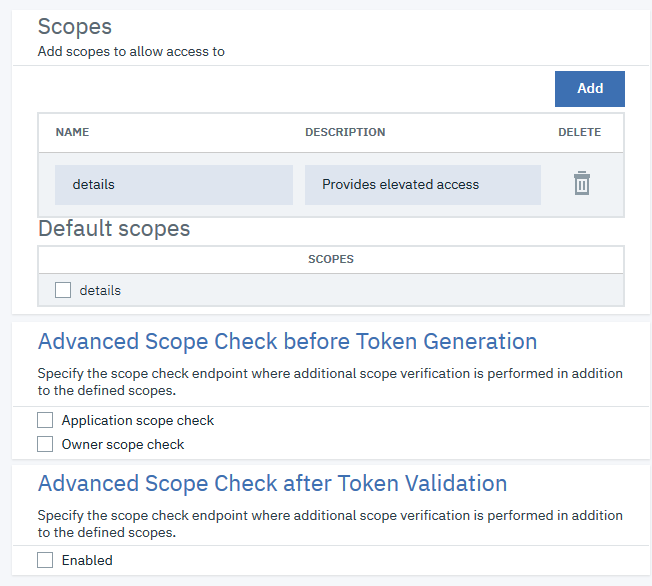
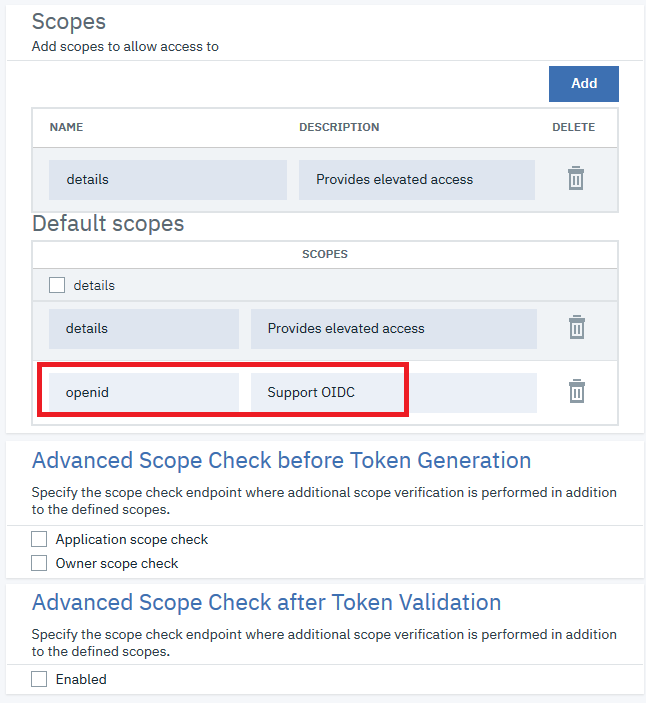
Access Code

diff --git a/Lab API - Manage your APIs with API Connect/README.2018.md b/Lab API - Manage your APIs with API Connect/README.2018.md
@@ -980,7 +980,7 @@ At this stage, we have configured the Fake Authentication URL API that we will u
 ## Protecting an API with Basic Authentication
 First, please consider that using Basic Authentication is not the best and most secured approach! The reason we have this test, is because it is a simple way to check that the *Fake Authentication URL API* is correctly working and can be used to secure an API. If I may make a parallel with Web application, using Basic Authentication is as secured as using it for a web application. A 401 challenge compared to a Form based authentication will imply that every request will contain the uid/pwd, not very secured indeed.
 
-There is an important design decision regarding what is the scope of the resource we are going to configure. Resource, here, means User Registries, TLS configurations and OAuth Providers. Should tey apply and be visible for only one organization, or should it be defined for all organizations. In our case, we have taken the decision that the resources will be defined for all organizations, and so we defined them in the Cloud Management Console. We could have decided to do it for each organization so they all would have their specific configurations.
+There is an important design decision regarding what is the scope of the resource we are going to configure. Resource, here, means User Registries, TLS configurations and OAuth Providers. Should they apply and be visible for only one organization, or should it be defined for all organizations. In our case, we have taken the decision that the resources will be defined for all organizations, and so we defined them in the Cloud Management Console. We could have decided to do it for each organization so they all would have their specific configurations.
 
 The list of Steps are the following:
 * In the Cloud Management console, define the User Registry based on the *Fake Authentication URL API*
@@ -1054,7 +1054,7 @@ In this lab, we start with a very simple case, but still very useful: the use of
 
 > **Note**: In this lab, we do not explain how to propagate the user information with a JWT token, it will be done in another version of this lab. But this is an important question, and there are different ways to get user information like having the back end performing a callback with the OAuth token to get information. We are not explaining the generationg of OIDC token. As of today, this is not a mandatory scenario required by OpenID and we are still in discussions to decide to implement it.
 
-### Create the Oauth Provider
+### Create the OAuth Provider
 So let's start! First let's create the native OAuth provider. As discussed earlier, we use the Cloud Management console, but it was a design decision, and we could use the API Manager console and manage OAuth resources, if we wanted.
 
 Login to the Cloud Manager console, and select Resources (or Manage Resources from home). Select OAuth Providers and click on Add and select Native OAuth Provider button.
@@ -1109,7 +1109,7 @@ Click on Finish button.
 
 We are going to add a few features to the OAuth Provider, such as OIDC and use of other endpoints such as introspection.
 Edit the NativeProvider:
-* Look at the Scopes panel, you will see other settings available, but we are not going to change them at this stage.
+* In the Scopes panel, add openid as a scope for the support of OIDC.
 
 ![Native OAuth provider scopes configuration](./images/native-edit-scopes.png)
 
@@ -1144,11 +1144,11 @@ Now, We need to make this OAuth Provider accessible in the various catalogs wher
 We have now an OAuth provider definition. We leave the Cloud Manager console and go to the Manager Console.
 Click on Manage, and select Sandbox, then Settings, and OAuth Providers. Click on Edit button on the top left.
 
-![OAuth provider association to Catalog Edit](./images/OAuth-native-manager-associate.png)
+![OAuth provider association to Catalog Edit](./images/oauth-native-manager-associate.png)
 
 Click on the checkbox close to the NativeProvider
 
-![OAuth provider association to Catalog](./images/OAuth-native-manager-associate-edit.png)
+![OAuth provider association to Catalog](./images/oauth-native-manager-associate-edit.png)
 
 Repeat the same operation with the Integration Catalog.
 It is not yet accessible because we are not using it in any API.
@@ -1203,8 +1203,6 @@ I'm going to test it in different ways: using Postman, curl and using the develo
 ![Test Access API](./images/test-ropc-15.png)
 
 #### Using curl
-**Warning : tested from Windows**
-
 
 1) Get token
 Request
@@ -1367,29 +1365,75 @@ Date: Fri, 03 Apr 2020 12:48:01 GMT
 ```
 
 ### Using the Developer portal
+We do not explain all th steps because it has been done in previous chapters.
+We connect to the developer Portal, then select the FakeMagento V2.0.0 API, and click on Tri it.
+In the first step, we get the token.
+We select the MyMobile App application, then enter the client_secret, enter the username and password and click on the Get Token button.
+It returns the Access Token.
+
+![Test Get Access Token](./images/test-ropc-21.png)
+
+In the second step, we click on Generate link to automatically populate the parameters needed to call the API. Then click on Send button.
+This invokes the FakeMagento API using the access Token as a Bearer.
+
+![Test Get Access Token](./images/test-ropc-22.png)
+
+## Protecting an API with OAuth - Authorization Code grant and OIDC
+
+### Protect the API with OAuth - Authorization
+Now let's protect, the FakeMagento version 3.0.0 API. Click on Develop, and select the FakeMagento-3.0.0 API.
+Click on Security Definitions, and click on Add button.
+Enter:
+> Name: Native Authorization
+<BR>Description: Using the native OAuth provider for Authorization grant
+<BR>Select OAuth2
+<BR>Select NativeProvider for the OAuth Provider
+<BR>Select Access code for the FLow
+<BR>Select details and openid for the scopes
+
+![OAuth Access Code API protection Security Definition](./images/access-secure-API-sec-def.png)
+
+Click Save button.
+
+![OAuth Access Code API protection Security](./images/access-secure-API-sec.png)
+
+### Tests
+Not explained in details here, but we publish the product (or use versionning with the publish capability), we are using the Integration environment. Then we subscribe to the Product with the Gold Plan, and approve the subscription. The API is published and ready to use.
+
+#### Using POSTMAN
+We are using one nice feature of Postman to directly get the access token.
+Using the "1 -Access Token Authorization V3" request
+Click on the Authorization link, then click on Get New Access Token
+
+![Postman Test Access Token](./images/test-access-11.png)
+
+![Postman Test Access Token](./images/test-access-12.png)
+
+![Postman Test Access Token](./images/test-access-13.png)
+
+![Postman Test Access Token](./images/test-access-14.png)
+
+![Postman Test Access Token](./images/test-access-15.png)
 
 
-## Protecting an API with OAuth - Authorization Code grant
+#### Using curl
+
+
+### Using the Developer portal
+You get the Acccess Token directly using curl or Postman. In my case, I use Postman to get the Access Token.
+We select the MyMobile App application, then enter the client_secret,and the Access Token. We click on Generate link to automatically populate the parameters needed to call the API. Then click on Send button.
+This invokes the FakeMagento API using the access Token as a Bearer.
+
+![Test Using the Access Token](./images/test-access-21.png)
+
+
 JSON Web Key (JWK) is specified at [RFC 7517](https://tools.ietf.org/html/rfc7517 "RFC 7517 Specification").
 A JSON Web Key (JWK) is a JavaScript Object Notation (JSON) data structure that represents a cryptographic key.
 I'm using a Simple JSON Web Key generator: [mkjwk](https://mkjwk.org/ "Simple JSON Web Key generator ").
-
-## Protecting an API with OAuth - Adding the OIDC token generation
 OIDC specification is based on the use of the idtoken which is a JSON Web Token - JWT specified at [RFC 7519](https://tools.ietf.org/html/rfc7519 "RFC 7519 Specification").
 
 ## Protecting an API with OAuth - Client Credentials grant
 
-This configuration requires two steps:
-1. Creating an OAuth API
-1. Configuring the API to be protected to use this OAuth API
-
-
-* Creation of the OAuth API
-From the API page, click on Create OAuth 2.0 Provider API.
-![Create OAuth API menu](./images/createOAuthAPIMenu.png)
-
-For the title enter *Banking Mgt OAuth Provider* for example and change the version to add a version number which is a good practice, for example /banking-mgt-OAuth-provider/v1.
-![Create OAuth API Title](./images/createOAuthAPITitle.png)
 
 ## Protecting an API with OAuth - External Provider
 %apic2018% -o org1 -c integration --consumer-org orgdev1 -a mymobileapp credentials:list --format json
